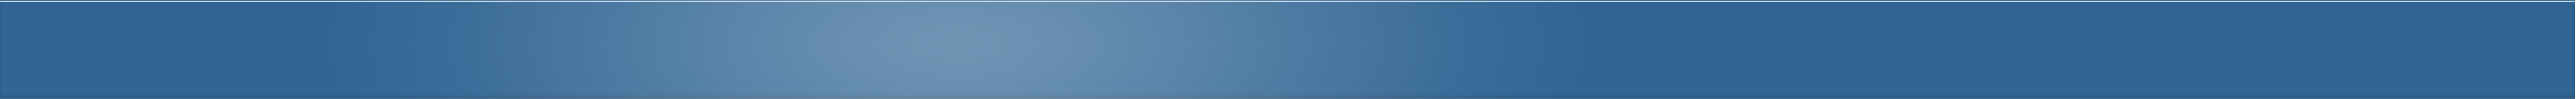
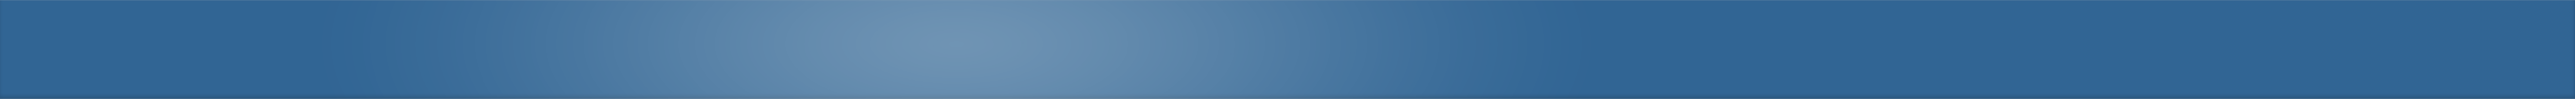
Mockup complete

Changed region(s): [[0.0, 0.0, 1.0, 0.03]]

diff --git a/public/stylesheets/screen.css b/public/stylesheets/screen.css
@@ -1760,10 +1760,11 @@ body a.button {
 /* line 92, ../../app/stylesheets/screen.sass */
 body .header {
   background-color: #cddae3;
+  border-bottom: 1px solid #6498c7;
   /* temp */
   height: 60px;
 }
-/* line 99, ../../app/stylesheets/screen.sass */
+/* line 100, ../../app/stylesheets/screen.sass */
 body .header h1 {
   padding-top: 10px;
   display: inline;
@@ -1775,7 +1776,7 @@ body .header h1 {
 * html body .header h1 {
   overflow-x: hidden;
 }
-/* line 103, ../../app/stylesheets/screen.sass */
+/* line 104, ../../app/stylesheets/screen.sass */
 body .header h1 a {
   font-family: "Puritan", arial, serif;
   margin-top: 8px;
@@ -1785,12 +1786,12 @@ body .header h1 a {
   text-decoration: none;
   -webkit-transition: all 0.4s;
 }
-/* line 112, ../../app/stylesheets/screen.sass */
+/* line 113, ../../app/stylesheets/screen.sass */
 body .header h1 a:hover {
   color: black;
   text-shadow: 0 0 1px rgba(255, 255, 255, 0.9);
 }
-/* line 116, ../../app/stylesheets/screen.sass */
+/* line 117, ../../app/stylesheets/screen.sass */
 body .header ul {
   list-style: none;
   display: inline;
@@ -1802,18 +1803,19 @@ body .header ul {
 * html body .header ul {
   overflow-x: hidden;
 }
-/* line 120, ../../app/stylesheets/screen.sass */
+/* line 121, ../../app/stylesheets/screen.sass */
 body .header ul li {
   display: inline-block;
   padding: 10px;
 }
-/* line 124, ../../app/stylesheets/screen.sass */
+/* line 125, ../../app/stylesheets/screen.sass */
 body .topside {
   background: #316594 url("/images/section_100.png") center;
   height: 100px;
   overflow: hidden;
+  border-top: 1px solid #9aa7b0;
 }
-/* line 129, ../../app/stylesheets/screen.sass */
+/* line 131, ../../app/stylesheets/screen.sass */
 body .topside .university-side {
   display: inline;
   float: left;
@@ -1826,7 +1828,7 @@ body .topside .university-side {
 * html body .topside .university-side {
   overflow-x: hidden;
 }
-/* line 134, ../../app/stylesheets/screen.sass */
+/* line 136, ../../app/stylesheets/screen.sass */
 body .topside .university-side .logo {
   display: inline;
   float: left;
@@ -1838,13 +1840,13 @@ body .topside .university-side .logo {
 * html body .topside .university-side .logo {
   overflow-x: hidden;
 }
-/* line 138, ../../app/stylesheets/screen.sass */
+/* line 140, ../../app/stylesheets/screen.sass */
 body .topside .university-side .logo img.side {
   width: 64px;
   height: 64px;
   display: inline-block;
 }
-/* line 143, ../../app/stylesheets/screen.sass */
+/* line 145, ../../app/stylesheets/screen.sass */
 body .topside .university-side .edit_buttons {
   display: inline;
   float: left;
@@ -1858,11 +1860,11 @@ body .topside .university-side .edit_buttons {
 * html body .topside .university-side .edit_buttons {
   overflow-x: hidden;
 }
-/* line 149, ../../app/stylesheets/screen.sass */
+/* line 151, ../../app/stylesheets/screen.sass */
 body .topside .university-side .edit_buttons:hover {
   opacity: 1;
 }
-/* line 152, ../../app/stylesheets/screen.sass */
+/* line 154, ../../app/stylesheets/screen.sass */
 body .topside .university-side .item {
   display: inline;
   float: left;
@@ -1875,7 +1877,7 @@ body .topside .university-side .item {
 * html body .topside .university-side .item {
   overflow-x: hidden;
 }
-/* line 157, ../../app/stylesheets/screen.sass */
+/* line 159, ../../app/stylesheets/screen.sass */
 body .topside .university-side .title {
   display: inline;
   float: left;
@@ -1886,12 +1888,12 @@ body .topside .university-side .title {
 * html body .topside .university-side .title {
   overflow-x: hidden;
 }
-/* line 160, ../../app/stylesheets/screen.sass */
+/* line 162, ../../app/stylesheets/screen.sass */
 body .topside .university-side .title h2 {
   margin: 0;
   padding: 0;
 }
-/* line 164, ../../app/stylesheets/screen.sass */
+/* line 166, ../../app/stylesheets/screen.sass */
 body .topside .university-side ul.tabs {
   padding: 0;
   list-style: none;
@@ -1900,7 +1902,7 @@ body .topside .university-side ul.tabs {
   position: absolute;
   bottom: 0;
 }
-/* line 173, ../../app/stylesheets/screen.sass */
+/* line 175, ../../app/stylesheets/screen.sass */
 body .topside .university-side ul.tabs li {
   display: inline-block;
   margin-left: 3px;
@@ -1911,24 +1913,24 @@ body .topside .university-side ul.tabs li {
   opacity: 0.85;
   -webkit-box-shadow: 0 0 2px rgba(0, 0, 0, 0.1);
 }
-/* line 183, ../../app/stylesheets/screen.sass */
+/* line 185, ../../app/stylesheets/screen.sass */
 body .topside .university-side ul.tabs li.current {
   background: white;
   -webkit-box-shadow: 0 0 2px rgba(0, 0, 0, 0.4);
   opacity: 1;
 }
-/* line 188, ../../app/stylesheets/screen.sass */
+/* line 190, ../../app/stylesheets/screen.sass */
 body .topside .university-side ul.tabs li.current a {
   color: black;
 }
-/* line 191, ../../app/stylesheets/screen.sass */
+/* line 193, ../../app/stylesheets/screen.sass */
 body .topside .university-side ul.tabs li a {
   color: #333344;
   text-decoration: none;
   font-weight: bold;
   font-size: 13px;
 }
-/* line 197, ../../app/stylesheets/screen.sass */
+/* line 199, ../../app/stylesheets/screen.sass */
 body .topside .search-side {
   display: inline;
   float: left;
@@ -1939,7 +1941,7 @@ body .topside .search-side {
 * html body .topside .search-side {
   overflow-x: hidden;
 }
-/* line 200, ../../app/stylesheets/screen.sass */
+/* line 202, ../../app/stylesheets/screen.sass */
 body .topside .search-side h2 {
   color: white;
   display: inline;
@@ -1953,14 +1955,14 @@ body .topside .search-side h2 {
 * html body .topside .search-side h2 {
   overflow-x: hidden;
 }
-/* line 206, ../../app/stylesheets/screen.sass */
+/* line 208, ../../app/stylesheets/screen.sass */
 body .topside .search-side .search {
   width: 944px;
   overflow: auto;
   padding: 3px;
   -webkit-transition: all 0.4s;
 }
-/* line 213, ../../app/stylesheets/screen.sass */
+/* line 215, ../../app/stylesheets/screen.sass */
 body .topside .search-side .search input[type=text] {
   width: 830px;
   margin: 0;
@@ -1971,7 +1973,7 @@ body .topside .search-side .search input[type=text] {
   -webkit-border-top-left-radius: 6px;
   -webkit-border-bottom-left-radius: 6px;
 }
-/* line 223, ../../app/stylesheets/screen.sass */
+/* line 225, ../../app/stylesheets/screen.sass */
 body .topside .search-side .search input[type=submit] {
   width: 114px;
   margin: 0;
@@ -1983,12 +1985,12 @@ body .topside .search-side .search input[type=submit] {
   -webkit-border-top-right-radius: 6px;
   -webkit-border-bottom-right-radius: 6px;
 }
-/* line 234, ../../app/stylesheets/screen.sass */
+/* line 236, ../../app/stylesheets/screen.sass */
 body .section {
   background-color: white;
   overflow: auto;
 }
-/* line 238, ../../app/stylesheets/screen.sass */
+/* line 240, ../../app/stylesheets/screen.sass */
 body .section .page {
   display: inline;
   float: left;
@@ -2000,7 +2002,7 @@ body .section .page {
 * html body .section .page {
   overflow-x: hidden;
 }
-/* line 243, ../../app/stylesheets/screen.sass */
+/* line 245, ../../app/stylesheets/screen.sass */
 body .section .page img.university_stack {
   display: inline;
   float: left;
@@ -2011,7 +2013,7 @@ body .section .page img.university_stack {
 * html body .section .page img.university_stack {
   overflow-x: hidden;
 }
-/* line 246, ../../app/stylesheets/screen.sass */
+/* line 248, ../../app/stylesheets/screen.sass */
 body .section .page p {
   display: inline;
   float: left;
@@ -2024,7 +2026,7 @@ body .section .page p {
 * html body .section .page p {
   overflow-x: hidden;
 }
-/* line 251, ../../app/stylesheets/screen.sass */
+/* line 253, ../../app/stylesheets/screen.sass */
 body .section .page p.register {
   color: black;
   background-color: rgba(55, 55, 255, 0.1);
@@ -2033,29 +2035,29 @@ body .section .page p.register {
   font-size: 14px;
   border-top: 1px solid rgba(50, 50, 250, 0.25);
 }
-/* line 259, ../../app/stylesheets/screen.sass */
+/* line 261, ../../app/stylesheets/screen.sass */
 body .section .page p.register span {
   text-shadow: 0 0 3px rgba(255, 255, 255, 0.3);
 }
-/* line 262, ../../app/stylesheets/screen.sass */
+/* line 264, ../../app/stylesheets/screen.sass */
 body .section .page p span.grafter {
   font-weight: bold;
   font-size: 1.3em;
   text-decoration: underline;
   color: black;
 }
-/* line 268, ../../app/stylesheets/screen.sass */
+/* line 270, ../../app/stylesheets/screen.sass */
 body .section .page ul {
   list-style: none;
   margin: 0;
   padding: 2px;
 }
-/* line 273, ../../app/stylesheets/screen.sass */
+/* line 275, ../../app/stylesheets/screen.sass */
 body .section .page ul li {
   display: inline-block;
   margin: 0 5px 5px 0;
 }
-/* line 277, ../../app/stylesheets/screen.sass */
+/* line 279, ../../app/stylesheets/screen.sass */
 body .section .page ul li a.university_item {
   padding: 3px 6px;
   background: #33ccff;
@@ -2064,18 +2066,18 @@ body .section .page ul li a.university_item {
   display: block;
   -webkit-transition: all 0.3s;
 }
-/* line 285, ../../app/stylesheets/screen.sass */
+/* line 287, ../../app/stylesheets/screen.sass */
 body .section .page ul li a.university_item:hover {
   background: #22bbee;
   -webkit-box-shadow: 0 0 3px rgba(0, 0, 0, 0.3);
 }
-/* line 289, ../../app/stylesheets/screen.sass */
+/* line 291, ../../app/stylesheets/screen.sass */
 body .section .page ul li a.university_item img.icon {
   display: inline-block;
   width: 32px;
   height: 32px;
 }
-/* line 294, ../../app/stylesheets/screen.sass */
+/* line 296, ../../app/stylesheets/screen.sass */
 body .section .page ul li a.university_item span.feed {
   display: block;
   position: absolute;
@@ -2087,16 +2089,16 @@ body .section .page ul li a.university_item span.feed {
   color: white;
   -webkit-box-shadow: 0 0 3px rgba(0, 0, 0, 0.5);
 }
-/* line 305, ../../app/stylesheets/screen.sass */
+/* line 307, ../../app/stylesheets/screen.sass */
 body .section .page ul li a.university_item .item {
   display: inline-block;
 }
-/* line 308, ../../app/stylesheets/screen.sass */
+/* line 310, ../../app/stylesheets/screen.sass */
 body .section .page ul li a.university_item .item h3 {
   margin: 0;
   padding: 0;
 }
-/* line 315, ../../app/stylesheets/screen.sass */
+/* line 317, ../../app/stylesheets/screen.sass */
 body .section .page .signup-footer p {
   display: inline;
   float: left;
@@ -2108,7 +2110,7 @@ body .section .page .signup-footer p {
 * html body .section .page .signup-footer p {
   overflow-x: hidden;
 }
-/* line 319, ../../app/stylesheets/screen.sass */
+/* line 321, ../../app/stylesheets/screen.sass */
 body .section .page .tab_container {
   display: inline;
   float: left;
@@ -2120,7 +2122,7 @@ body .section .page .tab_container {
 * html body .section .page .tab_container {
   overflow-x: hidden;
 }
-/* line 323, ../../app/stylesheets/screen.sass */
+/* line 325, ../../app/stylesheets/screen.sass */
 body .footer {
   background: #d0d9e0 url("/images/footer.png") repeat-x;
   height: 200px;

diff --git a/app/stylesheets/screen.sass b/app/stylesheets/screen.sass
@@ -91,6 +91,7 @@ body
 
   .header
     background-color: $header
+    border-bottom: 1px solid $section + #333
 
     /* temp */
     height: 60px
@@ -125,6 +126,7 @@ body
     background: $section url("/images/section_100.png") center
     height: 100px
     overflow: hidden
+    border-top: 1px solid $header - #333
 
     .university-side
       +column(24)

diff --git a/app/controllers/universities_controller.rb b/app/controllers/universities_controller.rb
@@ -14,4 +14,8 @@ class UniversitiesController < ApplicationController
   def new
     
   end
+
+  def edit
+    
+  end
 end
